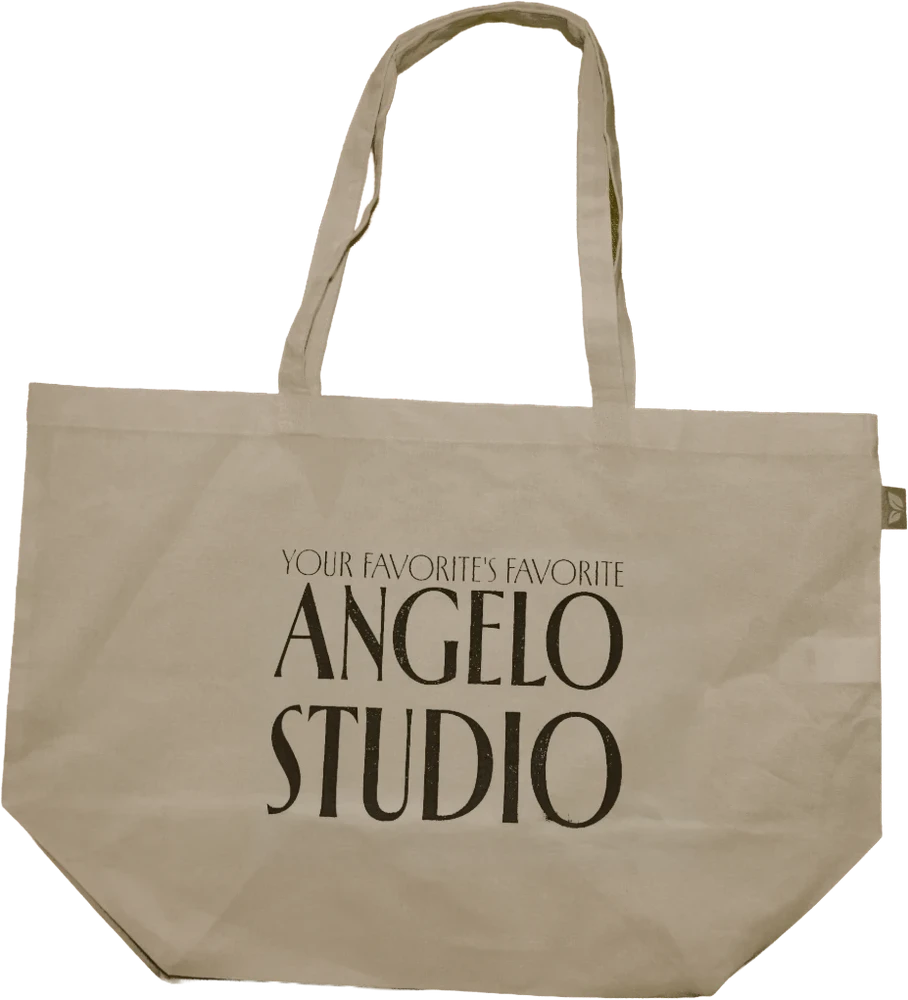
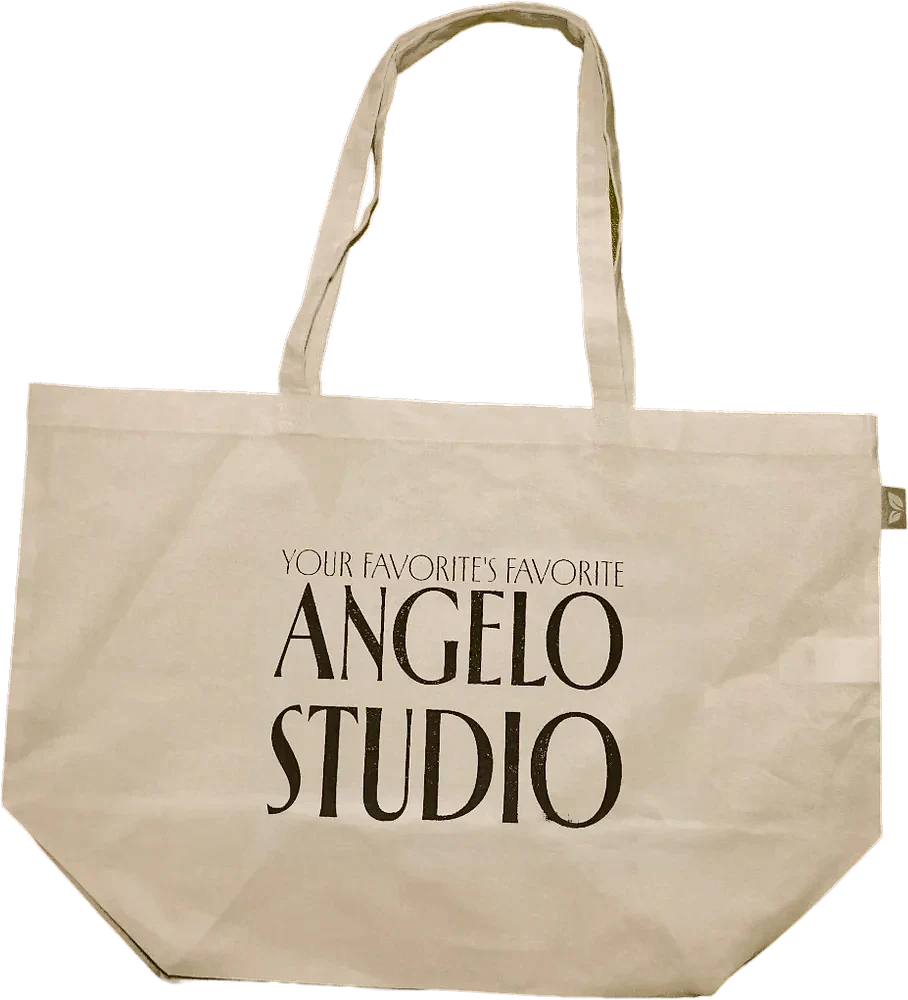
Product photo colour-corrected (warm cotton, no green cast, deeper print) on a lighter panel

diff --git a/site/src/styles/sheet.css b/site/src/styles/sheet.css
@@ -91,7 +91,7 @@
   aspect-ratio: 5 / 4;
   max-height: 46dvh;
   width: 100%;
-  background: var(--canvas);
+  background: #ebe5d9; /* a shade under the paper, so the cotton bag stands out */
   overflow: hidden;
 }
 .sheet__media picture {
